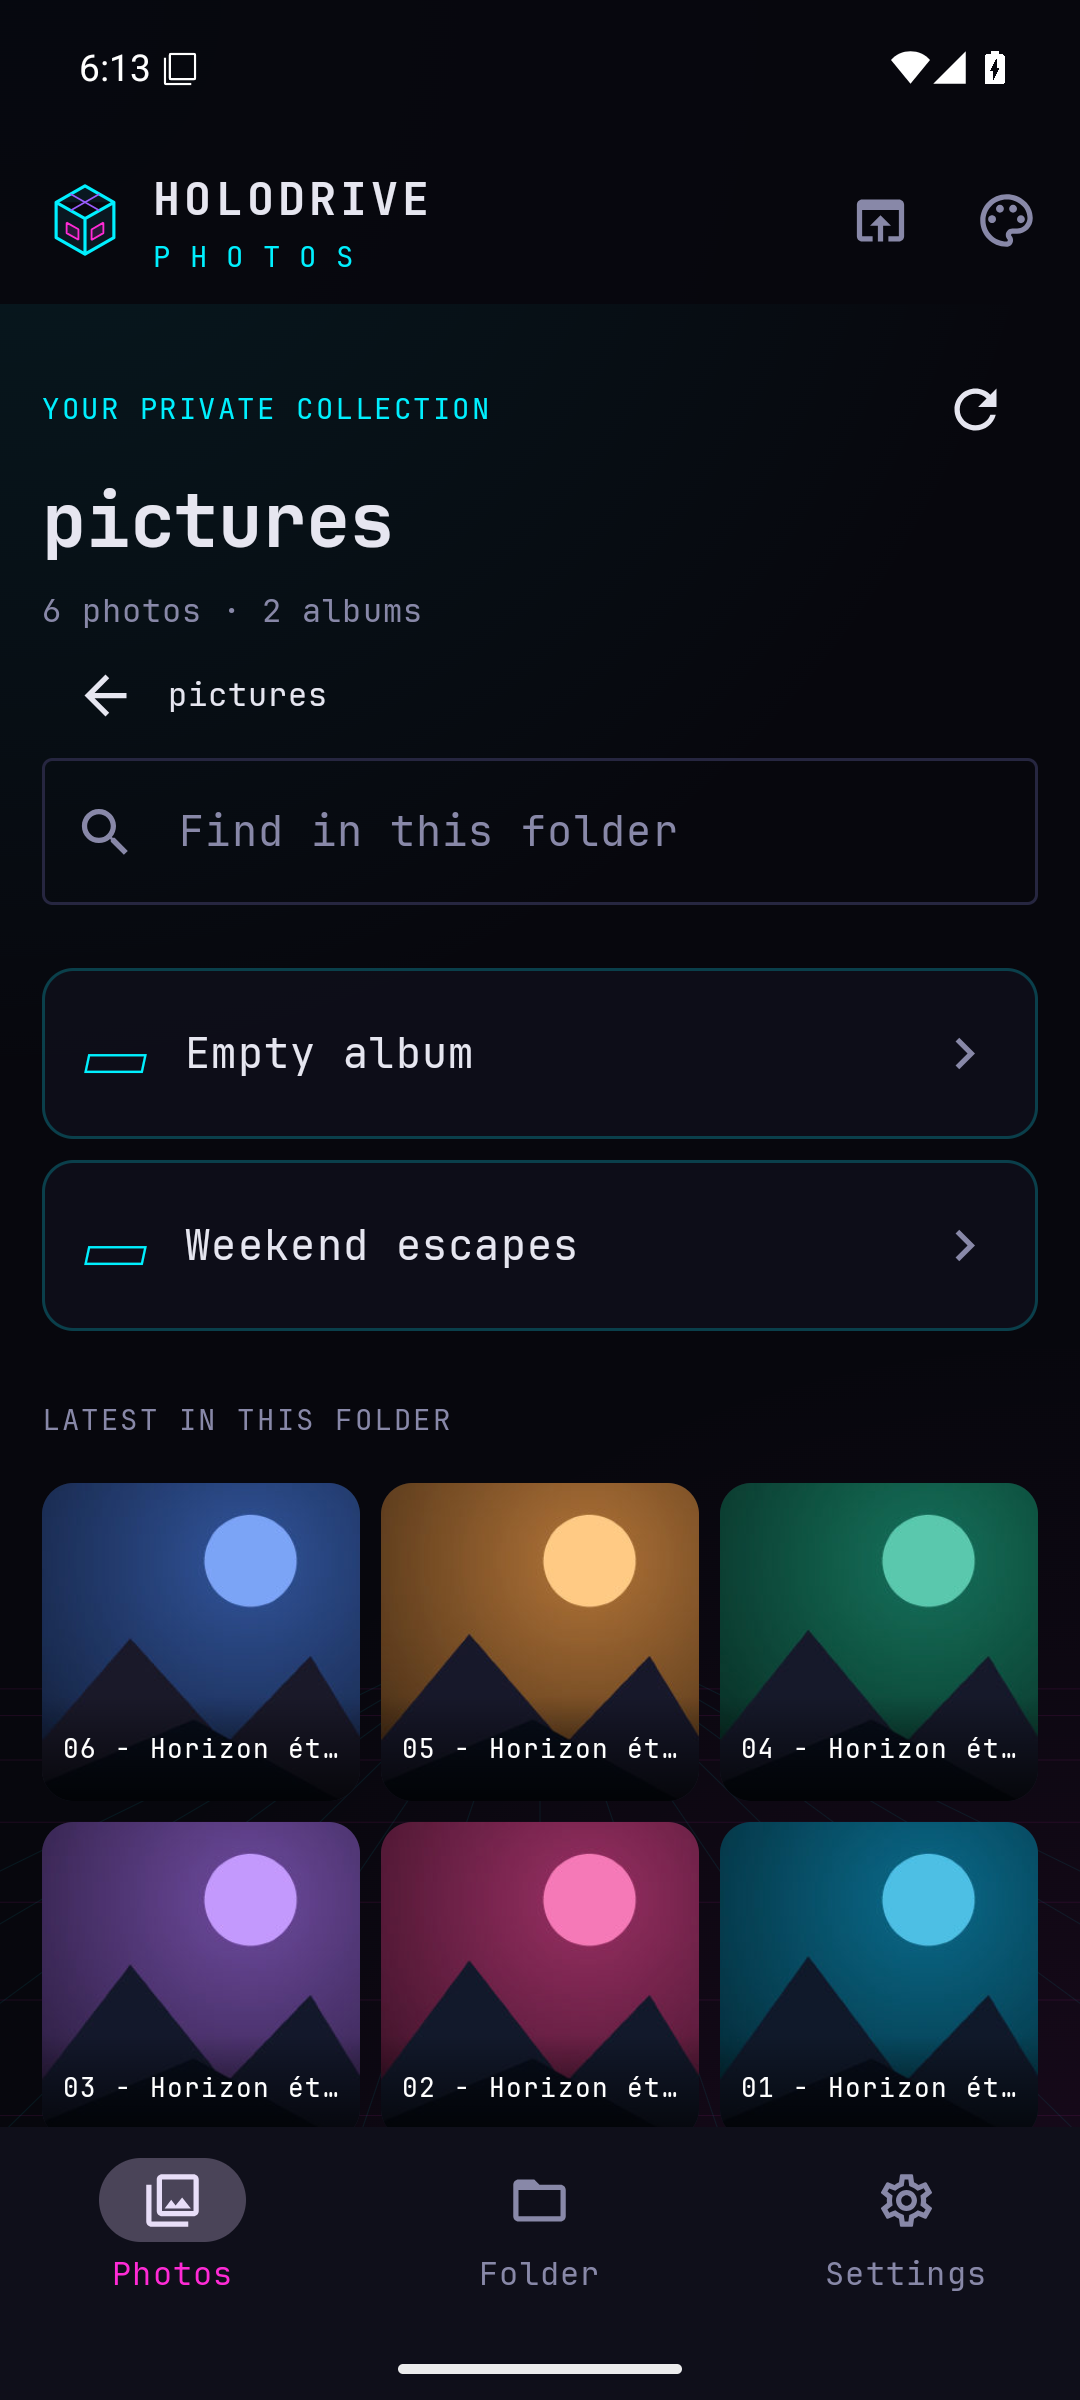
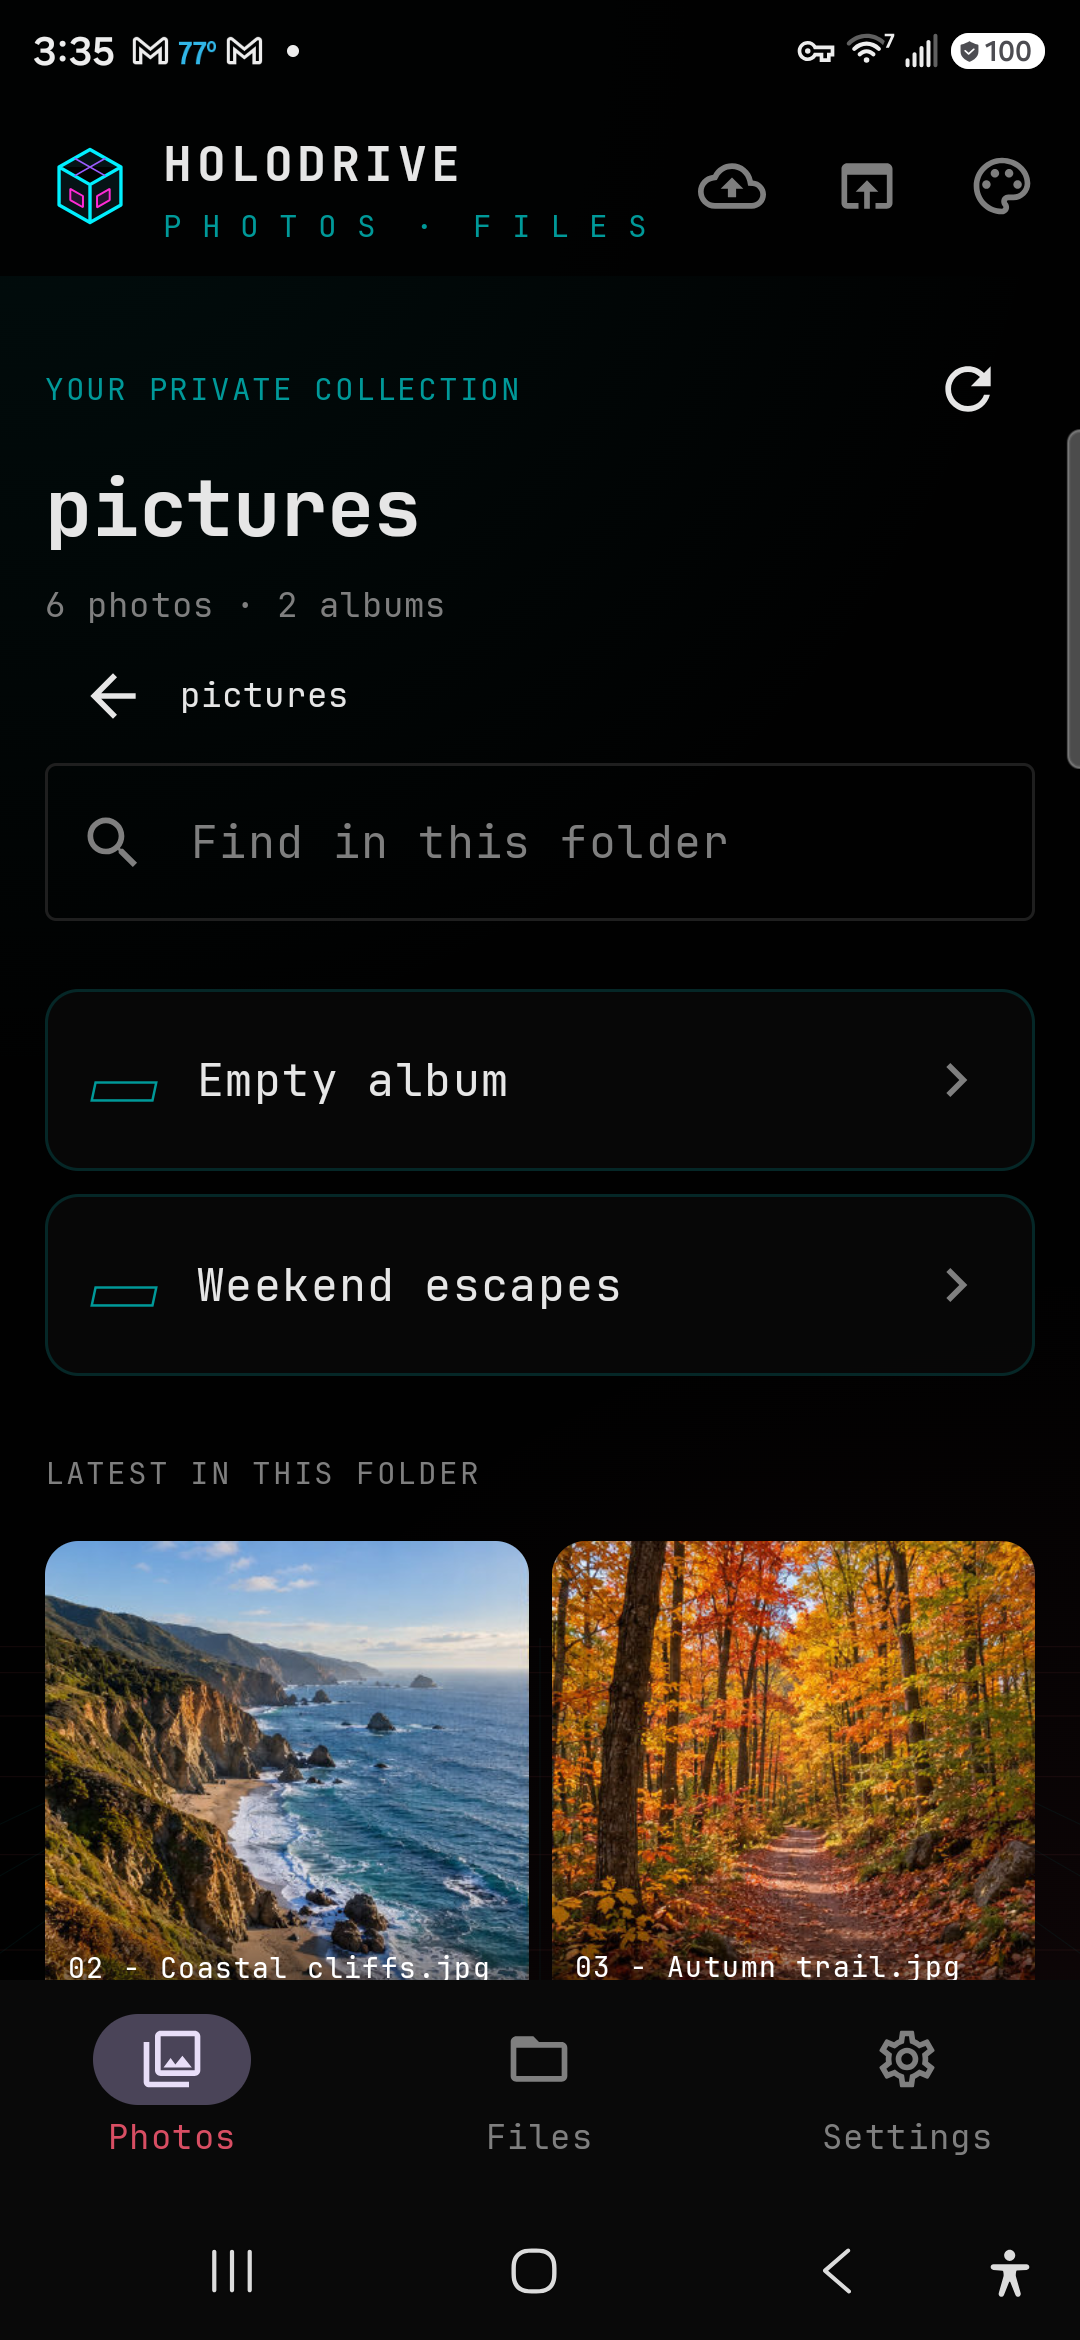
Refresh Holodrive Android page screenshots

diff --git a/index.html b/index.html
@@ -69,13 +69,12 @@
         <p>Browse photos and files from your phone, save originals with Android’s file picker, and share files from other apps into your Holodrive upload queue.</p>
       </div>
       <div class="android-gallery">
-        <figure><img src="static/android/gallery.png" alt="Holodrive Android photo gallery showing generated sample photos"><figcaption>PHOTO LIBRARY / YEAR-GROUPED BROWSING</figcaption></figure>
+        <figure><img src="static/android/gallery.png" alt="Real Holodrive Photos screen captured on Android, showing generated sample travel photos"><figcaption>ANDROID APP / LIVE GALLERY CAPTURE</figcaption></figure>
         <figure><img src="static/android/viewer.png" alt="Holodrive Android full-screen photo viewer"><figcaption>PHOTO VIEWER / SWIPE BETWEEN IMAGES</figcaption></figure>
-        <figure><img src="static/android/zoom.png" alt="Holodrive Android zoomed photo view"><figcaption>DETAIL / PINCH TO ZOOM</figcaption></figure>
       </div>
       <div class="android-install">
-        <div><p class="eyebrow">SIGNED GITHUB RELEASES</p><h3>Install Holodrive Photos.</h3><p>Android 11 or newer. The first signed APK is being prepared; open the release history to see when v0.1.0 is published.</p><a href="https://github.com/cybercore-tech/holodrive-android-app/releases">OPEN RELEASE HISTORY ↗</a><span>Automatic update checks will be available through Obtainium.</span></div>
-        <div class="android-command"><span>DOWNLOAD + VERIFY / LINUX · MACOS · ANDROID TERMUX</span><code>curl -fL -o holodrive-photos.apk https://github.com/cybercore-tech/holodrive-android-app/releases/latest/download/holodrive-photos.apk</code><code>curl -fL -o holodrive-photos.apk.sha256 https://github.com/cybercore-tech/holodrive-android-app/releases/latest/download/holodrive-photos.apk.sha256 &amp;&amp; sha256sum --check holodrive-photos.apk.sha256</code><small>These stable download URLs activate with the first release. Until then, use the release history link.</small><a href="https://github.com/ImranR98/Obtainium">GET IT WITH OBTAINIUM ↗</a></div>
+        <div><p class="eyebrow">SIGNED GITHUB RELEASES</p><h3>Install Holodrive Photos.</h3><p>Version 0.1.0 is available now for Android 11 and newer. Download the signed APK or view the release notes.</p><a href="https://github.com/cybercore-tech/holodrive-android-app/releases/latest/download/holodrive-photos.apk">DOWNLOAD APK ↗</a><span>Get update notifications by adding the Android app repository in Obtainium.</span></div>
+        <div class="android-command"><span>DOWNLOAD + VERIFY / LINUX · MACOS · ANDROID TERMUX</span><code>curl -fL -o holodrive-photos.apk https://github.com/cybercore-tech/holodrive-android-app/releases/latest/download/holodrive-photos.apk</code><code>curl -fL -o holodrive-photos.apk.sha256 https://github.com/cybercore-tech/holodrive-android-app/releases/latest/download/holodrive-photos.apk.sha256 &amp;&amp; sha256sum --check holodrive-photos.apk.sha256</code><small>Install the downloaded APK on your phone. Android will ask you to allow installs from your browser or file manager.</small><a href="https://github.com/ImranR98/Obtainium">GET IT WITH OBTAINIUM ↗</a></div>
       </div>
       <p class="android-detail-link"><a href="https://cybercore-tech.github.io/holodrive-android-app/">OPEN THE DETAILED ANDROID APP GUIDE ↗</a> <span>·</span> <a href="https://github.com/cybercore-tech/holodrive-android-app">VIEW SOURCE ↗</a></p>
     </section>

diff --git a/README.md b/README.md
@@ -131,7 +131,7 @@ Then `systemctl --user restart holodrive`. Thumbnails cache in
 
 ## 📱 Android app
 
-The first signed companion-app release is being prepared. Follow [GitHub Releases](https://github.com/cybercore-tech/holodrive-android-app/releases) for the APK and read the [Android install and feature guide](https://cybercore-tech.github.io/holodrive-android-app/). For automatic update checks after release, add `https://github.com/cybercore-tech/holodrive-android-app` to [Obtainium](https://github.com/ImranR98/Obtainium). Signed APK releases include a SHA-256 checksum and installation instructions.
+Version 0.1.0 of the signed companion app is available for Android 11 and newer. [Download the APK](https://github.com/cybercore-tech/holodrive-android-app/releases/latest/download/holodrive-photos.apk), read the [Android install and feature guide](https://cybercore-tech.github.io/holodrive-android-app/), or see the [release notes and SHA-256 checksum](https://github.com/cybercore-tech/holodrive-android-app/releases/latest). For update notifications, add `https://github.com/cybercore-tech/holodrive-android-app` to [Obtainium](https://github.com/ImranR98/Obtainium).
 
 ## 🧩 Samba helper (optional)
 
